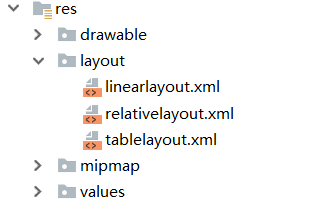
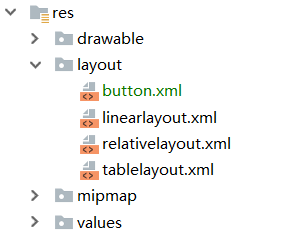
AndroidLayout

diff --git a/app/src/main/java/com/example/administrator/androidlayout/MainActivity.java b/app/src/main/java/com/example/administrator/androidlayout/MainActivity.java
@@ -1,13 +1,42 @@
 package com.example.administrator.androidlayout;
 
+import android.content.Intent;
 import android.support.v7.app.AppCompatActivity;
 import android.os.Bundle;
+import android.view.View;
+import android.widget.Button;
 
 public class MainActivity extends AppCompatActivity {
-
+    private Button myBtn_one;
+    private Button myBtn_two;
+    private Button myBtn_three;
     @Override
     protected void onCreate(Bundle savedInstanceState) {
         super.onCreate(savedInstanceState);
-        setContentView(R.layout.tablelayout);
+        setContentView(R.layout.button);
+        myBtn_one = (Button)findViewById(R.id.btn_one);
+        myBtn_two = (Button)findViewById(R.id.btn_two);
+        myBtn_three = (Button)findViewById(R.id.btn_three);
+        myBtn_one.setOnClickListener(new View.OnClickListener() {
+            @Override
+            public void onClick(View v) {
+                Intent intent = new Intent(MainActivity.this,LinearLayoutActivity.class);
+                startActivity(intent);
+            }
+        });
+        myBtn_two.setOnClickListener(new View.OnClickListener() {
+            @Override
+            public void onClick(View v) {
+                Intent intent = new Intent(MainActivity.this,RelativeLayoutActivity.class);
+                startActivity(intent);
+            }
+        });
+        myBtn_three.setOnClickListener(new View.OnClickListener() {
+            @Override
+            public void onClick(View v) {
+                Intent intent = new Intent(MainActivity.this,TableLayoutActivity.class);
+                startActivity(intent);
+            }
+        });
     }
 }

diff --git a/app/src/main/java/com/example/administrator/androidlayout/RelativeLayoutActivity.java b/app/src/main/java/com/example/administrator/androidlayout/RelativeLayoutActivity.java
@@ -1,0 +1,13 @@
+package com.example.administrator.androidlayout;
+
+import android.os.Bundle;
+import android.support.v7.app.AppCompatActivity;
+
+public class RelativeLayoutActivity extends AppCompatActivity {
+
+    @Override
+    protected void onCreate(Bundle savedInstanceState) {
+        super.onCreate(savedInstanceState);
+        setContentView(R.layout.relativelayout);
+    }
+}

diff --git a/app/src/main/java/com/example/administrator/androidlayout/LinearLayoutActivity.java b/app/src/main/java/com/example/administrator/androidlayout/LinearLayoutActivity.java
@@ -1,0 +1,13 @@
+package com.example.administrator.androidlayout;
+
+import android.support.v7.app.AppCompatActivity;
+import android.os.Bundle;
+
+public class LinearLayoutActivity extends AppCompatActivity {
+
+    @Override
+    protected void onCreate(Bundle savedInstanceState) {
+        super.onCreate(savedInstanceState);
+        setContentView(R.layout.linearlayout);
+    }
+}

diff --git a/app/src/main/java/com/example/administrator/androidlayout/TableLayoutActivity.java b/app/src/main/java/com/example/administrator/androidlayout/TableLayoutActivity.java
@@ -1,0 +1,13 @@
+package com.example.administrator.androidlayout;
+
+import android.os.Bundle;
+import android.support.v7.app.AppCompatActivity;
+
+public class TableLayoutActivity extends AppCompatActivity {
+
+    @Override
+    protected void onCreate(Bundle savedInstanceState) {
+        super.onCreate(savedInstanceState);
+        setContentView(R.layout.tablelayout);
+    }
+}
